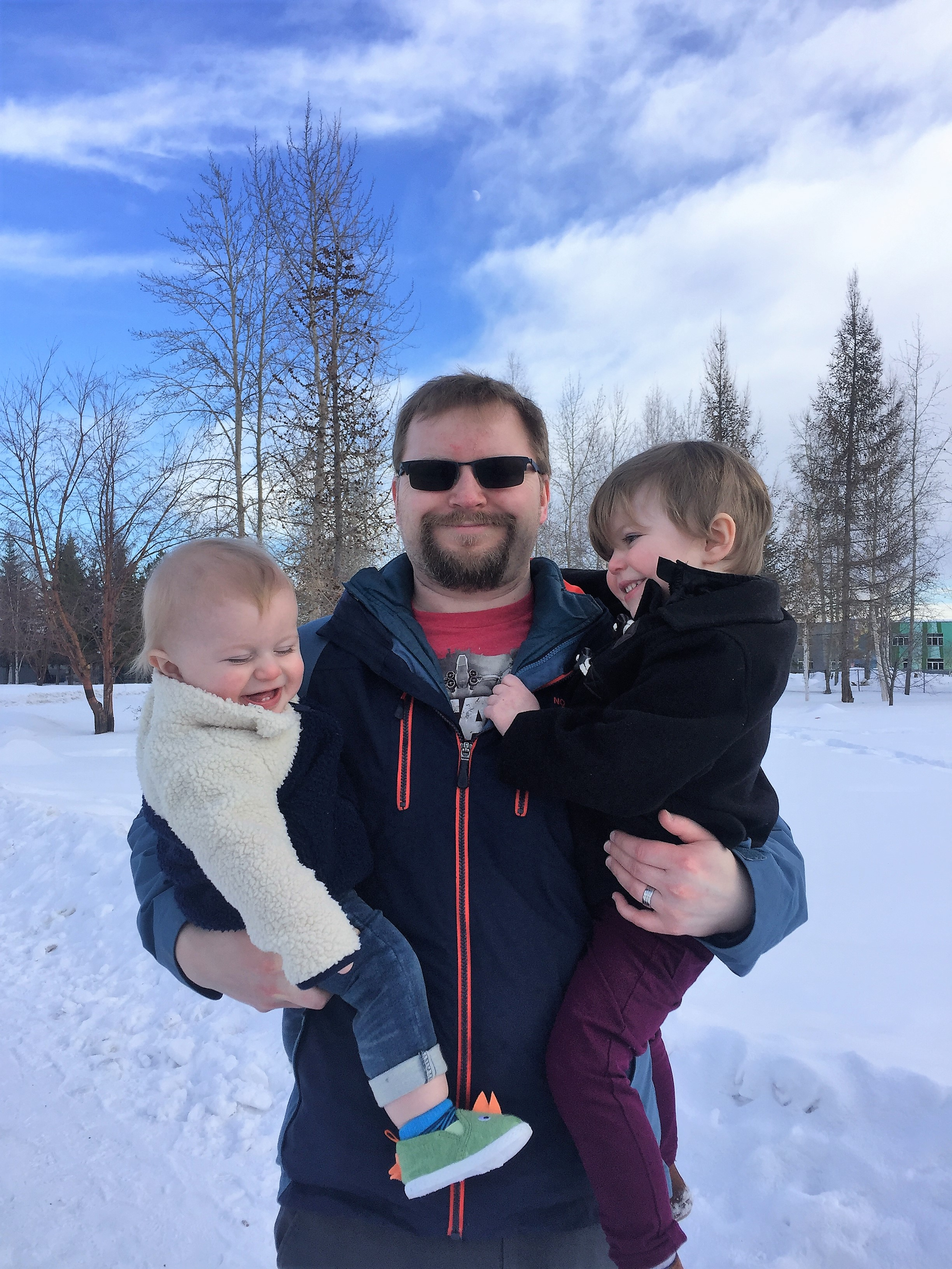
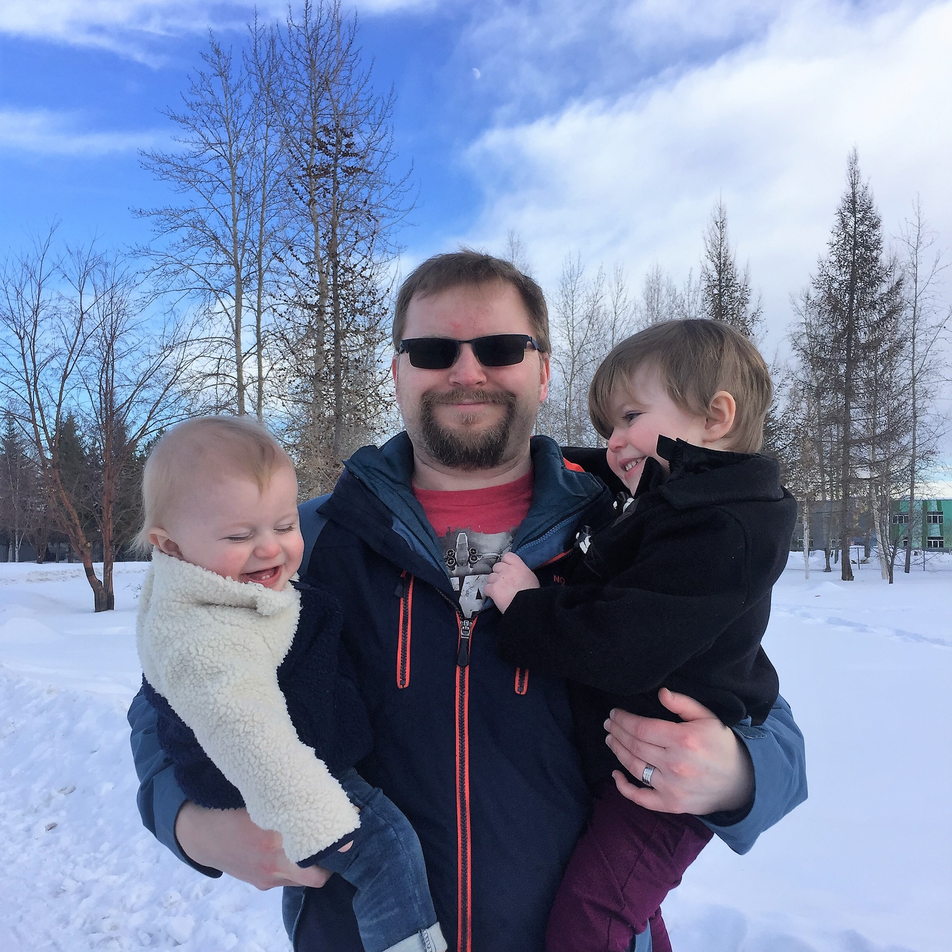
update art

diff --git a/content/authors.md b/content/authors.md
@@ -9,7 +9,7 @@ description: "Meet the data analysts behind Education Data Done Right and view t
 
 ### Wendy I. Geller
 
-<div style=" width: 100px; height: 100px; position: relative; overflow: hidden; border-radius: 40%;">
+<div style=" width: 100px; height: 100px; position: relative; overflow: hidden; border-radius: 10%;">
     <img src="/wendy_g.jpg" alt="team-member" style="display: inline; margin: 0 auto; height: 100%; margin-left: 10%; width: auto;">
     </img>
 </div>
@@ -84,7 +84,7 @@ research papers with copious data prep and analysis details.
 
 
 <div style=" width: 100px; height: 100px; position: relative; overflow: hidden; border-radius: 50%;">
-    <img src="/j_headshot_new.jpg" alt="team-member" style="display: inline; margin: 0 auto; margin-left: -15%; height: 100%; width: auto;">
+    <img src="/j_headshot_new.jpg" alt="team-member" style="display: inline; margin: 0 auto; margin-left: -5%; height: 100%; width: auto;">
     </img>
 </div>
 
@@ -125,7 +125,7 @@ To follow his work, sign up for his monthly newsletter, The Civic Pulse!
 
 
 <div style=" width: 100px; height: 100px; position: relative; overflow: hidden; border-radius: 50%;">
-    <img src="/lacole_f.jpg" alt="team-member" style="display: inline; margin: 0 auto; margin-left: -15%; height: 100%; width: auto;">
+    <img src="/lacole_f.jpeg" alt="team-member" style="display: inline; margin: 0 auto; margin-left: -15%; height: 100%; width: auto;">
     </img>
 </div>
 
